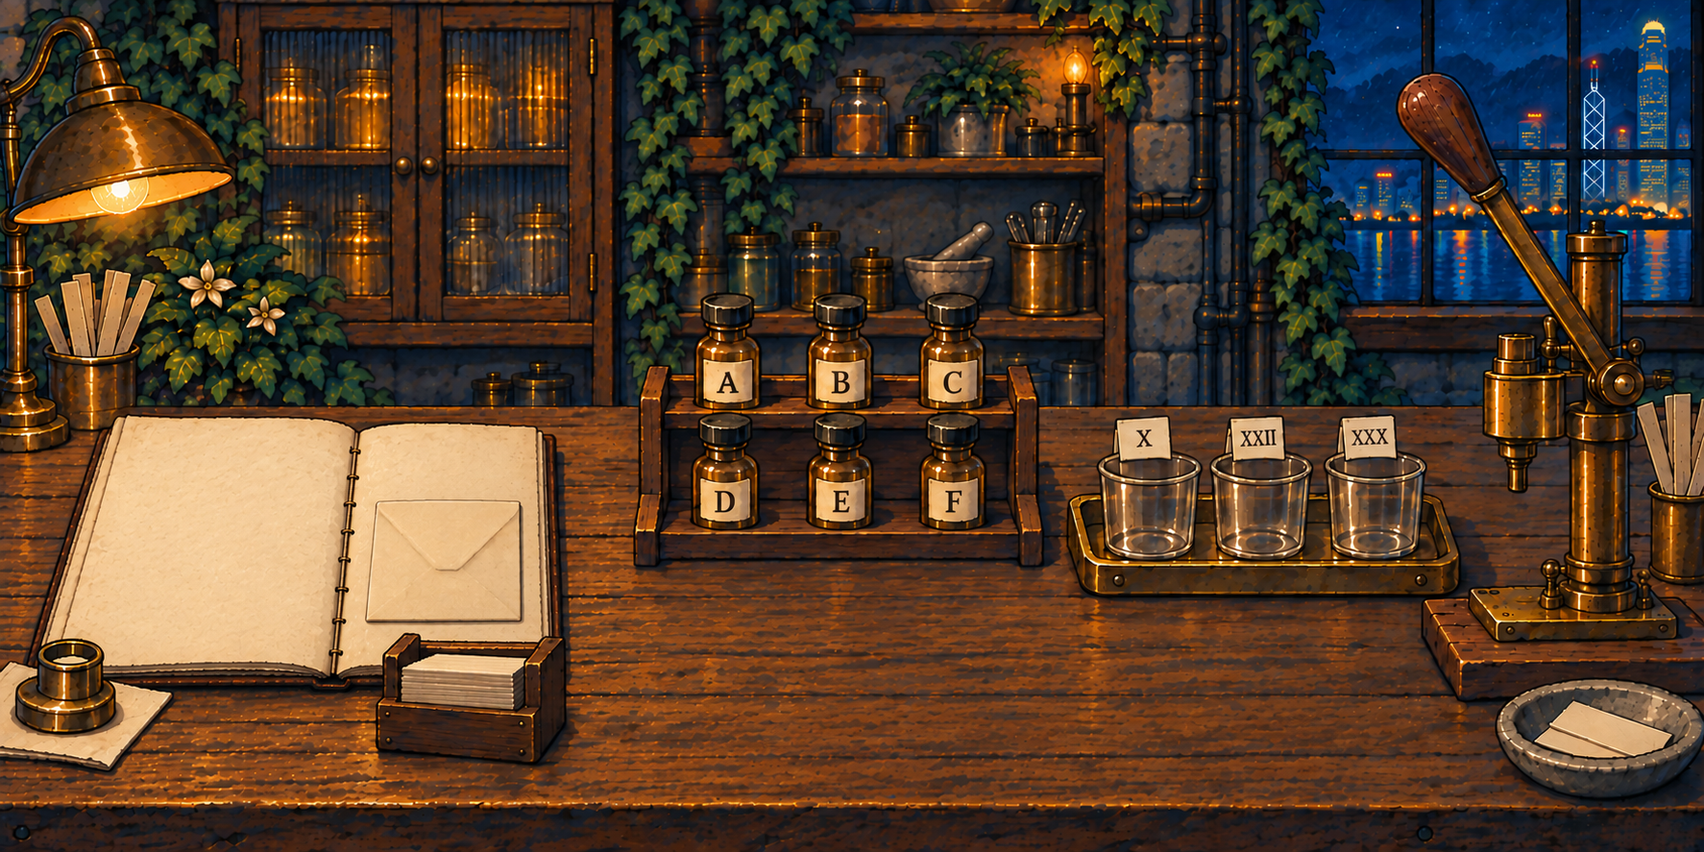
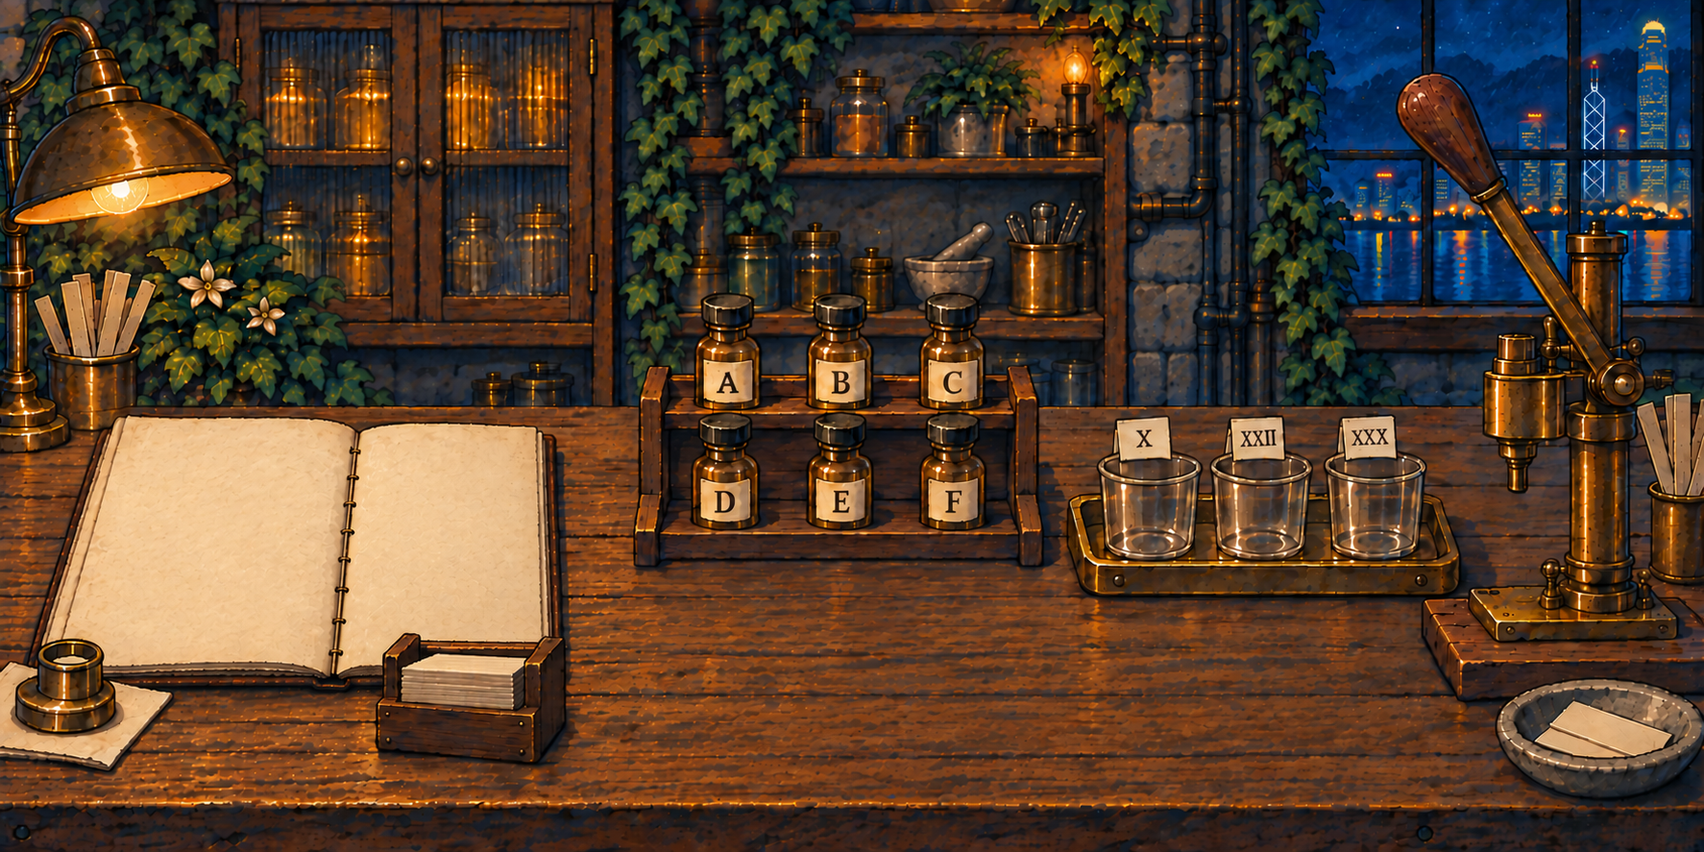
fix: author perfume record pages and simplify reference clue

diff --git a/ios/Ivy/Game/PerfumeLaboratoryViews.swift b/ios/Ivy/Game/PerfumeLaboratoryViews.swift
@@ -31,7 +31,7 @@ struct PerfumeLaboratoryView: View {
                 let scale = geometry.size.width / 320
                 ZStack {
                     if panel == .perfumeFormula {
-                        PerfumeLabRecordArtwork(store: store, page: store.perfumeLab.recordPage, interactive: true)
+                        PerfumeLabRecordArtwork(store: store, page: store.perfumeLab.recordPage)
                     } else if panel == .perfumeLab {
                         Image("ll5-samples").resizable().scaledToFit().accessibilityHidden(true)
                         samples(scale: scale)
@@ -170,16 +170,19 @@ struct PerfumeLaboratoryView: View {
         }
         if !store.perfumeLab.complete {
             ForEach(0..<6) { index in
-                let point = PerfumeLabLayout.tag(index)
-                labArt("ll5-token-" + PerfumeLaboratory.sampleName(index), at: point, width: 33, height: 23, scale: scale)
-                hit("Sample " + PerfumeLaboratory.sampleName(index), at: point, width: 46, height: 25, scale: scale, drag: "ivy-perfume-sample:" + String(index)) {
+                let point = CGPoint(x: PerfumeLabLayout.tag(index).x, y: 139)
+                labArt("ll5-token-" + PerfumeLaboratory.sampleName(index), at: point, width: 12, height: 36, scale: scale)
+                if let mark = store.perfumeLab.visibleMark(at: index) {
+                    labArt("ll5-mark-" + mark.rawValue, at: CGPoint(x: point.x, y: 145), width: 8, height: 8, scale: scale)
+                }
+                hit("Sample " + PerfumeLaboratory.sampleName(index), at: point, width: 46, height: 36, scale: scale, drag: "ivy-perfume-sample:" + String(index)) {
                     selectedSample = selectedSample == index ? nil : index
                 }
                 .accessibilityValue(selectedSample == index ? "Selected" : "")
                 if selectedSample == index {
                     Image("ui-storybook-page").resizable().scaledToFit()
                         .frame(width: 7 * scale, height: 7 * scale).rotationEffect(.degrees(90))
-                        .position(x: point.x * scale, y: 126 * scale).allowsHitTesting(false).accessibilityHidden(true)
+                        .position(x: point.x * scale, y: 116 * scale).allowsHitTesting(false).accessibilityHidden(true)
                 }
             }
             hit("Press the bottling handle", at: CGPoint(x: 232, y: 28), width: 48, height: 39, scale: scale,
@@ -192,68 +195,47 @@ struct PerfumeLaboratoryView: View {
 struct PerfumeLabRecordArtwork: View {
     let store: GameStore
     let page: Int
-    var interactive = false
 
     var body: some View {
-        GeometryReader { geometry in
-            let s = geometry.size.width / 320
-            ZStack {
-                Image("ll4-notes").resizable().scaledToFit().accessibilityHidden(true)
-                if page < 2 {
-                    ForEach(0..<2) { side in
-                        let observation = page * 2 + side
-                        let x: CGFloat = side == 0 ? 87 : 234
-                        labArt("ll5-observation-\(observation)", at: CGPoint(x: x, y: 39), width: 118, height: 18, scale: s)
-                        ForEach(Array(PerfumeLaboratory.observations[observation].enumerated()), id: \.offset) { index, material in
-                            if let mark = PerfumeLaboratory.mark(for: material) {
-                                labArt("ll5-mark-" + mark.rawValue, at: CGPoint(x: x + (index == 0 ? -26 : 26), y: 78), width: 30, height: 30, scale: s)
+        FittedSceneStage {
+            GeometryReader { geometry in
+                let s = geometry.size.width / 320
+                ZStack {
+                    Image(recordImage).resizable().interpolation(.high)
+                        .frame(width: geometry.size.width, height: geometry.size.height)
+                        .accessibilityHidden(true)
+                    if page == 4 {
+                        // Only the player's discovered sample marks remain dynamic.
+                        ForEach(0..<6) { index in
+                            let x: CGFloat = index < 3 ? 87 : 234
+                            let y = CGFloat(40 + (index % 3) * 35)
+                            if let mark = store.perfumeLab.visibleMark(at: index) {
+                                labArt("ll5-id-" + PerfumeLaboratory.sampleName(index), at: CGPoint(x: x - 29, y: y), width: 18, height: 18, scale: s)
+                                labArt("ll5-mark-" + mark.rawValue, at: CGPoint(x: x + 23, y: y), width: 25, height: 25, scale: s)
                             }
-                        }
-                    }
-                    if page == 0 {
-                        labArt("ll5-unchanged", at: CGPoint(x: 87, y: 117), width: 99, height: 15, scale: s)
-                        if store.perfumeLab.referenceUnfolded {
-                            labArt("ll5-reference-name", at: CGPoint(x: 217, y: 120), width: 52, height: 15, scale: s)
-                            labArt("ll5-mark-branch", at: CGPoint(x: 263, y: 118), width: 23, height: 23, scale: s)
-                        } else {
-                            labArt("ll5-reference-closed", at: CGPoint(x: 236, y: 118), width: 49, height: 39, scale: s)
-                            if interactive {
-                                Button(action: store.unfoldPerfumeReference) {
-                                    Color.clear.frame(width: max(48, 49 * s), height: max(48, 39 * s)).contentShape(Rectangle())
-                                }.buttonStyle(.plain).position(x: 236 * s, y: 118 * s)
-                                    .accessibilityLabel("Unfold the reference paper")
-                            }
-                        }
-                    }
-                } else if page == 2 {
-                    ForEach(0..<3) { index in
-                        let x: CGFloat = index < 2 ? 87 : 234
-                        let y: CGFloat = index == 1 ? 98 : 42
-                        labArt("ll5-recipe-name-\(index)", at: CGPoint(x: x, y: y), width: 118, height: 18, scale: s)
-                        labArt("ll5-recipe-\(index)", at: CGPoint(x: x, y: y + 24), width: 118, height: 17, scale: s)
-                    }
-                } else if page == 3 {
-                    labArt("ll5-reference-name", at: CGPoint(x: 87, y: 62), width: 100, height: 22, scale: s)
-                    labArt("ll5-mark-branch", at: CGPoint(x: 234, y: 78), width: 44, height: 44, scale: s)
-                } else {
-                    ForEach(0..<6) { index in
-                        let x: CGFloat = index < 3 ? 87 : 234
-                        let y = CGFloat(40 + (index % 3) * 35)
-                        if let mark = store.perfumeLab.visibleMark(at: index) {
-                            labArt("ll5-id-" + PerfumeLaboratory.sampleName(index), at: CGPoint(x: x - 29, y: y), width: 18, height: 18, scale: s)
-                            labArt("ll5-mark-" + mark.rawValue, at: CGPoint(x: x + 23, y: y), width: 25, height: 25, scale: s)
                         }
                     }
                 }
+                .frame(width: geometry.size.width, height: geometry.size.height)
+                .accessibilityElement(children: .ignore)
+                .accessibilityLabel(evidenceDescription)
             }
-            .accessibilityElement(children: interactive ? .contain : .ignore)
-            .accessibilityLabel(evidenceDescription)
+        }
+    }
+
+    private var recordImage: String {
+        switch page {
+        case 0: "ll5-record-wood"
+        case 1: "ll5-record-citrus"
+        case 2: "ll5-record-recipes"
+        case 3: "ll5-record-reference"
+        default: "ll4-notes"
         }
     }
 
     private var evidenceDescription: String {
         switch page {
-        case 0: store.clueText(.perfumeTrialsWood) + (store.perfumeLab.referenceUnfolded ? " " + store.clueText(.perfumeReference) : " A folded reference is closed.")
+        case 0: store.clueText(.perfumeTrialsWood) + " " + store.clueText(.perfumeReference)
         case 1: store.clueText(.perfumeTrialsCitrus)
         case 2: PerfumeFormula.all.map { store.clueText($0.clue) }.joined(separator: ". ")
         case 3: store.clueText(.perfumeReference)
@@ -289,6 +271,8 @@ struct PerfumeLabWorldArtwork: View {
                     labArt(row == 0 ? "ll5-mark-rings" : "ll5-mark-waves",
                            at: CGPoint(x: 50, y: CGFloat(98 + row * 21)), width: 8, height: 9, scale: s)
                 }
+                labArt("ll5-reference-name", at: CGPoint(x: 82, y: 88), width: 24, height: 4, scale: s)
+                labArt("ll5-mark-branch", at: CGPoint(x: 82, y: 106), width: 13, height: 15, scale: s)
                 ForEach(Array(PerfumeLaboratory.materials.enumerated()), id: \.offset) { index, material in
                     if !store.perfumeLab.labels.contains(material) && !store.perfumeLab.complete {
                         labArt("ll4-label-" + material.rawValue, at: CGPoint(x: 129 + CGFloat(index) * 25, y: 141), width: 23, height: 10, scale: s)

diff --git a/scripts/export_perfume_laboratory.swift b/scripts/export_perfume_laboratory.swift
@@ -53,6 +53,8 @@ func lettering(_ string: String, rect: CGRect, size: CGFloat, in ctx: CGContext)
     ctx.translateBy(x: rect.midX - bounds.width * fit / 2 - bounds.minX * fit,
                     y: rect.midY - bounds.height * fit / 2 - bounds.minY * fit)
     ctx.scaleBy(x: fit, y: fit)
+    ctx.textMatrix = .identity
+    ctx.textPosition = .zero
     CTLineDraw(line, ctx)
     ctx.restoreGState()
 }
@@ -87,18 +89,6 @@ for (name, text) in lines {
 }
 for letter in ["A", "B", "C", "D", "E", "F"] {
     try export("ll5-id-" + letter, 32, 32) { lettering(letter, rect: CGRect(x: 0, y: 0, width: 32, height: 32), size: 27, in: $0) }
-    // A die-cut, punched paper tag authored as a vector asset, not a runtime UI rectangle.
-    try export("ll5-token-" + letter, 64, 42) { ctx in
-        let path = CGMutablePath()
-        path.move(to: CGPoint(x: 7, y: 3))
-        for point in [CGPoint(x: 59, y: 4), CGPoint(x: 61, y: 31), CGPoint(x: 51, y: 39), CGPoint(x: 6, y: 37)] { path.addLine(to: point) }
-        path.closeSubpath()
-        ctx.setFillColor(NSColor(red: 0.89, green: 0.80, blue: 0.61, alpha: 1).cgColor)
-        ctx.setStrokeColor(NSColor(red: 0.34, green: 0.23, blue: 0.12, alpha: 1).cgColor)
-        ctx.setLineWidth(1.2); ctx.addPath(path); ctx.drawPath(using: .fillStroke)
-        ctx.setFillColor(ink); ctx.fillEllipse(in: CGRect(x: 50, y: 29, width: 3, height: 3))
-        lettering(letter, rect: CGRect(x: 12, y: 7, width: 35, height: 28), size: 27, in: ctx)
-    }
 }
 for name in ["branch", "rings", "waves", "stars", "dashes", "mesh"] {
     try export("ll5-mark-" + name, 64, 64) { ctx in
@@ -138,4 +128,62 @@ for name in ["branch", "rings", "waves", "stars", "dashes", "mesh"] {
         }
     }
 }
-print("Exported perfume laboratory artwork and lettering.")
+// Compose the physical pages at export time. The game scales one complete spread,
+// so lettering cannot acquire a different origin or fitting transform from its paper.
+let blankBook = load(root.appendingPathComponent("ios/Ivy/Assets.xcassets/Scenes/LeLabo/ll4-notes.imageset/ll4-notes@3x.png"))
+let swatchBook = load(source.appendingPathComponent("record-swatches.png"))
+func artwork(_ name: String) -> CGImage {
+    load(catalog.appendingPathComponent("\(name).imageset/\(name)@3x.png"))
+}
+func place(_ image: CGImage, x: CGFloat, y: CGFloat, width: CGFloat, height: CGFloat, in ctx: CGContext) {
+    ctx.draw(image, in: CGRect(x: x - width / 2, y: 160 - y - height / 2, width: width, height: height))
+}
+let observationMarks = [["branch", "rings"], ["branch", "waves"], ["stars", "dashes"], ["stars", "mesh"]]
+for page in ["wood", "citrus", "recipes", "reference"] {
+    try export("ll5-record-" + page, 590, 295) { ctx in
+        ctx.scaleBy(x: 590.0 / 320, y: 590.0 / 320)
+        ctx.draw(page == "wood" || page == "citrus" ? swatchBook : blankBook,
+                 in: CGRect(x: 0, y: 0, width: 320, height: 160))
+        if page == "wood" || page == "citrus" {
+            for side in 0..<2 {
+                let observation = (page == "citrus" ? 2 : 0) + side
+                let x: CGFloat = side == 0 ? 91 : 231
+                place(artwork("ll5-observation-\(observation)"), x: x, y: 31, width: 112, height: 15.5, in: ctx)
+                for mark in 0..<2 {
+                    let markX: CGFloat = side == 0 ? (mark == 0 ? 62 : 121) : (mark == 0 ? 201 : 260)
+                    place(artwork("ll5-mark-" + observationMarks[observation][mark]), x: markX, y: 69, width: 30, height: 30, in: ctx)
+                }
+            }
+            if page != "citrus" {
+                place(artwork("ll5-unchanged"), x: 87, y: 114, width: 99, height: 14, in: ctx)
+                lettering("Cedar =", rect: CGRect(x: 184, y: 35, width: 65, height: 16), size: 12, in: ctx)
+                place(artwork("ll5-mark-branch"), x: 263, y: 117, width: 24, height: 24, in: ctx)
+            }
+        } else if page == "recipes" {
+            let ingredients = [["Gaiac Wood", "+ Incense"], ["Bergamot", "+ Cedar"], ["Oakmoss", "+ Patchouli"]]
+            for index in 0..<3 {
+                let x: CGFloat = index < 2 ? 87 : 234
+                let y: CGFloat = index == 1 ? 89 : 32
+                place(artwork("ll5-recipe-name-\(index)"), x: x, y: y, width: 112, height: 15.5, in: ctx)
+                for row in 0..<2 {
+                    lettering(ingredients[index][row], rect: CGRect(x: x - 52, y: 160 - y - 26 - CGFloat(row) * 16,
+                                                                   width: 104, height: 14), size: 11, in: ctx)
+                }
+            }
+        } else {
+            place(artwork("ll5-reference-name"), x: 87, y: 70, width: 100, height: 14, in: ctx)
+            place(artwork("ll5-mark-branch"), x: 234, y: 78, width: 44, height: 44, in: ctx)
+        }
+    }
+}
+
+// Source alpha is transparent outside the silhouette; trim only empty margins.
+let strip = load(source.appendingPathComponent("scent-strip.png"))
+    .cropping(to: CGRect(x: 280, y: 50, width: 472, height: 1390))!
+for letter in ["A", "B", "C", "D", "E", "F"] {
+    try export("ll5-token-" + letter, 48, 144) { ctx in
+        ctx.draw(strip, in: CGRect(x: 0, y: 0, width: 48, height: 144))
+        lettering(letter, rect: CGRect(x: 17, y: 100, width: 25, height: 28), size: 25, in: ctx)
+    }
+}
+print("Exported perfume laboratory artwork and complete record pages.")

diff --git a/ios/Ivy/Game/PerfumeLaboratory.swift b/ios/Ivy/Game/PerfumeLaboratory.swift
@@ -33,6 +33,7 @@ struct PerfumeLabProgress: Codable, Equatable {
     var sampled: Set<Int> = []
     var labels: [AdventureTool?] = Array(repeating: nil, count: 6)
     var batches: [[Int]] = [[], [], []]
+    // Legacy save field; the Cedar reference is now printed directly on page one.
     var referenceUnfolded = false
     var recordPage = 0
     var readPages: Set<Int> = []
@@ -262,15 +263,9 @@ extension GameStore {
         guard canInspectPerfumeLab, overlay == .memory(.perfumeFormula), (0..<3).contains(page) else { return }
         perfumeLab.recordPage = page
         perfumeLab.readPages.insert(page)
-        if page == 0 { discover(.perfumeTrialsWood) }
+        if page == 0 { discover(.perfumeTrialsWood); discover(.perfumeReference) }
         else if page == 1 { discover(.perfumeTrialsCitrus) }
         else { PerfumeFormula.all.forEach { discover($0.clue) } }
         persistNow()
-    }
-
-    func unfoldPerfumeReference() {
-        guard canInspectPerfumeLab, overlay == .memory(.perfumeFormula), perfumeLab.recordPage == 0 else { return }
-        perfumeLab.referenceUnfolded = true
-        discover(.perfumeReference); persistNow()
     }
 }

diff --git a/ios/Ivy/Game/ExplorationViews.swift b/ios/Ivy/Game/ExplorationViews.swift
@@ -294,6 +294,7 @@ private struct ClueNotebookView: View {
     private var fragrancePages: [AdventureClue] {
         Self.fragranceClues.filter {
             store.exploration.clues.contains($0) &&
+            ($0 != .perfumeReference || !store.exploration.clues.contains(.perfumeTrialsWood)) &&
             (!store.exploration.clues.contains(.gaiacFormula) || ![.bergamoteFormula, .mousseFormula].contains($0))
         }
     }
@@ -301,6 +302,9 @@ private struct ClueNotebookView: View {
     private var pageCount: Int { ordinaryPageCount + fragrancePages.count }
     private var page: Int {
         guard let clue = store.memories.notebookClue else { return 0 }
+        if clue == .perfumeReference, let index = fragrancePages.firstIndex(of: .perfumeTrialsWood) {
+            return ordinaryPageCount + index
+        }
         if [.bergamoteFormula, .mousseFormula].contains(clue), let index = fragrancePages.firstIndex(of: .gaiacFormula) {
             return ordinaryPageCount + index
         }

diff --git a/ios/IvyTests/WonderlandTests.swift b/ios/IvyTests/WonderlandTests.swift
@@ -119,8 +119,7 @@ final class WonderlandTests: XCTestCase {
         store.backFromMemory()
         store.openMemory(.perfumeFormula)
         XCTAssertTrue(store.exploration.clues.contains(.perfumeTrialsWood))
-        store.unfoldPerfumeReference()
-        XCTAssertTrue(store.exploration.clues.contains(.perfumeReference))
+        XCTAssertTrue(store.exploration.clues.contains(.perfumeReference), "The Cedar reference is visible when the book opens")
         store.readPerfumeLabPage(2)
         XCTAssertTrue(store.exploration.clues.contains(.mousseFormula))
         store.backFromMemory()

diff --git a/ios/Ivy/Game/Exploration.swift b/ios/Ivy/Game/Exploration.swift
@@ -87,7 +87,7 @@ enum AdventureClue: String, Codable, CaseIterable, Identifiable {
         switch self {
         case .perfumeTrialsWood: "two cedar experiments"
         case .perfumeTrialsCitrus: "two bergamot experiments"
-        case .perfumeReference: "a folded reference"
+        case .perfumeReference: "Cedar reference"
         case .perfumeSamples: "the six samples"
         case .cinemaTicket: "two seats, one memory"
         case .ferrisScore: "a melody above the harbour"

diff --git a/art/perfume/laboratory/README.md b/art/perfume/laboratory/README.md
@@ -68,3 +68,22 @@ Actual source coordinates, on the shared 320×160 canvas:
 `PerfumeLaboratory.swift` now owns sampling, labels, complete-set judgment, page evidence, pickup and migration guards. `PerfumeLaboratoryViews.swift` owns rack, records, blending, overview state overlays and enlarged closeups. Existing cabinets remain scenery; the old raw-material pickup and old blending entry points are disabled once the optional laboratory record is activated. Successful batches create three independent pending outputs; reload never puts unclaimed output in Tools. The existing gift-box order and perfume ownership commit are reused.
 
 Two focused XCTest methods cover pure state/legacy decoding and the integrated tool–Notes–blend–pickup–box path. They were written but not executed. No validation scripts, verification build, device launch, reset or game screenshot pass was performed. Runtime touch/drag behavior, final device text size and artwork alignment still require user acceptance.
+
+
+## Revision — 2026-09-28: complete book pages and physical scent papers
+
+The user reported overflowing book lettering and flat color-and-letter paper selectors. This revision replaces runtime title/recipe composition with complete `ll5-record-wood`, `ll5-record-citrus`, `ll5-record-recipes` images. `PerfumeLabRecordArtwork` fits the complete spread and is shared by the physical book and Notes. The legacy reference-only Notes page also has an authored image. Discovered A–F evidence remains dynamic, with the same fitted canvas; unseen identities stay hidden.
+
+The user also removed the folded-reference layer. Cedar = branch is permanently printed on the first spread and its clue is recorded when that spread is opened. Notes merges the old standalone reference into the wood record and preserves a saved reading position on that reference. The obsolete save field remains decodable; no progress is reset. The overview book has no envelope or fold hotspot.
+
+Built-in imagegen sources and prompts:
+
+- `record-swatches.png`: `exec-cdf39839-7ada-497c-b43b-0f58bf1a93e2.png`. Edit the existing `ll4-notes` book, using the approved laboratory for physical swatches and Yard for brushwork. Preserve the whole 2:1 book, binding, camera and paper bounds; add exactly four blank taped cream paper swatches, two per page, leaving title and lower annotation areas clear. No baked controls or invented text.
+- `scent-strip.png`: `exec-1853e81d-23c4-4212-b551-09f67dfdc503.png`, refining `exec-004def22-5783-4690-a6ad-6c5e7c151df6.png`. One isolated matte ivory scent strip matching the approved paper, dark irregular edge, slight curl and crisp hand-painted texture. Preserve the blank paper; remove background/halo with transparent alpha. RGB outside the silhouette contains color, but its alpha is zero; production export preserves transparency.
+- `overview.png`: `exec-416517aa-8e8c-4601-a9d3-74cb4c5986d7.png`. The overview's single local edit removes only the envelope from the right journal page and restores blank cream paper; the corresponding Cedar inscription/mark remains a separate overview layer.
+
+The exporter places exact bundled-Juniper lettering and the existing six shared mark symbols into the full book images before producing each asset scale. Actual swatch centers are (62,69), (121,69), (201,69), (260,69) on the 320×160 canvas; headings occupy x=35–147 / 175–287, y≈23–39. Formula ingredients use two lines inside x=35–139 / 182–286, y=45–130. Cedar's visible reference occupies x=184–275, y=101–129. No text is clipped to conceal overflow.
+
+Scent-strip alpha extraction uses source bounds (280,50,472,1390), exported to the existing six `ll5-token-A`…`F` names. Each strip sits at (27+53i,139), 12×36 in the blending scene; discovered marks sit on its lower paper face at y=145. Hit areas remain the existing enlarged targets. Selection arrows sit above the paper at y=116. The old flat vector tag drawing is removed from the exporter.
+
+Inspected exported book artwork, letter boundaries, paper texture and alpha. Updated the existing integration assertion for the reference becoming visible on book open; it was not executed. No app build, device launch, gameplay screenshots or gesture tests were run; device acceptance remains user-owned.

diff --git a/docs/superpowers/plans/2026-09-27-perfume-laboratory.md b/docs/superpowers/plans/2026-09-27-perfume-laboratory.md
@@ -28,7 +28,7 @@ Four historical observations, shown as two readable pairs:
 3. Bergamot + Gaiac Wood → stars + dashes.
 4. Bergamot + Oakmoss → stars + mesh.
 
-The common mark identifies the common ingredient; each remaining mark identifies the other ingredient. Both groups are uniquely solvable. A physical folded reference exposes Cedar's branch mark on request. Notes contains only discovered evidence, never automatically inferred labels. No Hint button or timed tutorial.
+The common mark identifies the common ingredient; each remaining mark identifies the other ingredient. Both groups are uniquely solvable. Revision 2026-09-28: the user removed the folded-reference layer. Cedar's branch mark is printed directly on the first record spread; opening the book records it without an additional action. Notes contains only discovered evidence, never automatically inferred labels. No Hint button or timed tutorial.
 
 Final recipes are simplified fictional game formulas: Gaiac 10=gaiacWood+incense; Bergamote 22=bergamot+cedar; Mousse de Chene 30=oakmoss+patchouli. None is copied from a historical observation. Pair order is irrelevant; three cup identities matter. Each material is used once. There are 90 full partitions into three named pairs; no partial validation reduces that search. Recipes show names, not target marks. Correctness does not depend on player-applied labels.
 
@@ -40,7 +40,7 @@ Files: `art/perfume/laboratory/README.md`, `art/perfume/laboratory/source/`.
 
 - [x] Produce and inspect an overview proposal against current Yard and Le Labo catalog references. Document that historical source paths are absent in this checkout.
 - [x] Present the actual image for approval. The overview is not a production bitmap containing the whole interactive UI.
-- [x] After approval, author separate closeups for readable records, samples/labels and blending; export independent strips, labels, sample IDs, cup drafts and folded reference states.
+- [x] After approval, author separate closeups for readable records, samples/labels and blending; export independent strips, labels, sample IDs, cup drafts and complete record spreads (the folded reference was removed on 2026-09-28).
 - [x] Record physical surface bounds and shared image/hotspot transforms in the artwork README. Keep six samples distinguishable by A–F, not semantic bottle shape or material color. Each ingredient label has its own lettering asset; no ingredient-art substitution.
 
 ## Task 2 — Persistent puzzle model
